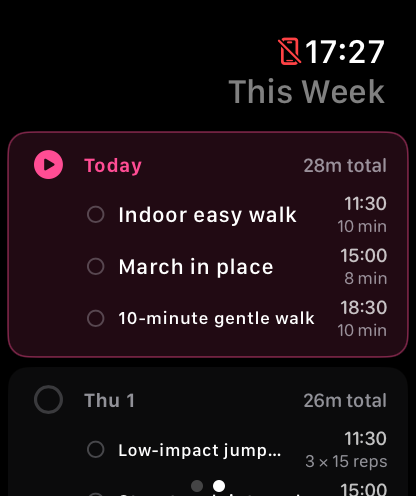
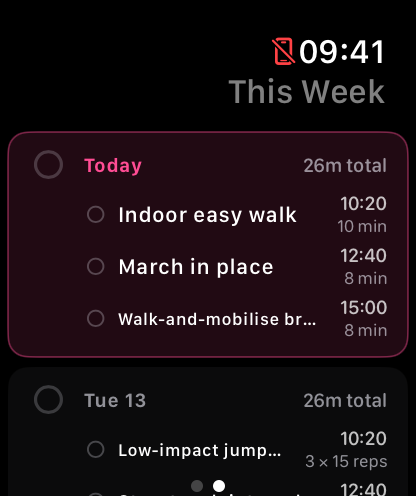
Update the website from the app repository

diff --git a/index.html b/index.html
@@ -155,7 +155,7 @@
         <figure class="watch" style="margin:0">
           <div class="watch-frame">
             <div class="watch-screen">
-              <img src="assets/watch-week.png" alt="The Apple Watch app's This Week screen, listing today's three exercises with their times: Indoor easy walk at 11:30, March in place at 15:00 and 10-minute gentle walk at 18:30" width="416" height="496">
+              <img src="assets/watch-week.png" alt="The Apple Watch app's This Week screen, listing today's three exercises with their times: Indoor easy walk at 10:20, March in place at 12:40 and Walk-and-mobilise break at 15:00" width="416" height="496">
               <span class="watch-mask" aria-hidden="true"></span>
             </div>
           </div>

diff --git a/assets/site.css b/assets/site.css
@@ -189,7 +189,7 @@ section.block:not(.alt) .card, section.block:not(.alt) .step, section.block:not(
 .watch-screen { position: relative; border-radius: 52px; overflow: hidden; background: #000; }
 .watch-screen img { width: 100%; }
 /* Hides the "iPhone not connected" glyph shown because the simulator Watch has no paired iPhone. */
-.watch-mask { position: absolute; left: 64.5%; top: 6.5%; width: 9.5%; height: 9%; background: #000; }
+.watch-mask { position: absolute; left: 64.5%; top: 6.5%; width: 7.4%; height: 9%; background: #000; }
 
 /* Gallery */
 .gallery { display: grid; grid-template-columns: repeat(4, 1fr); gap: 24px; }
